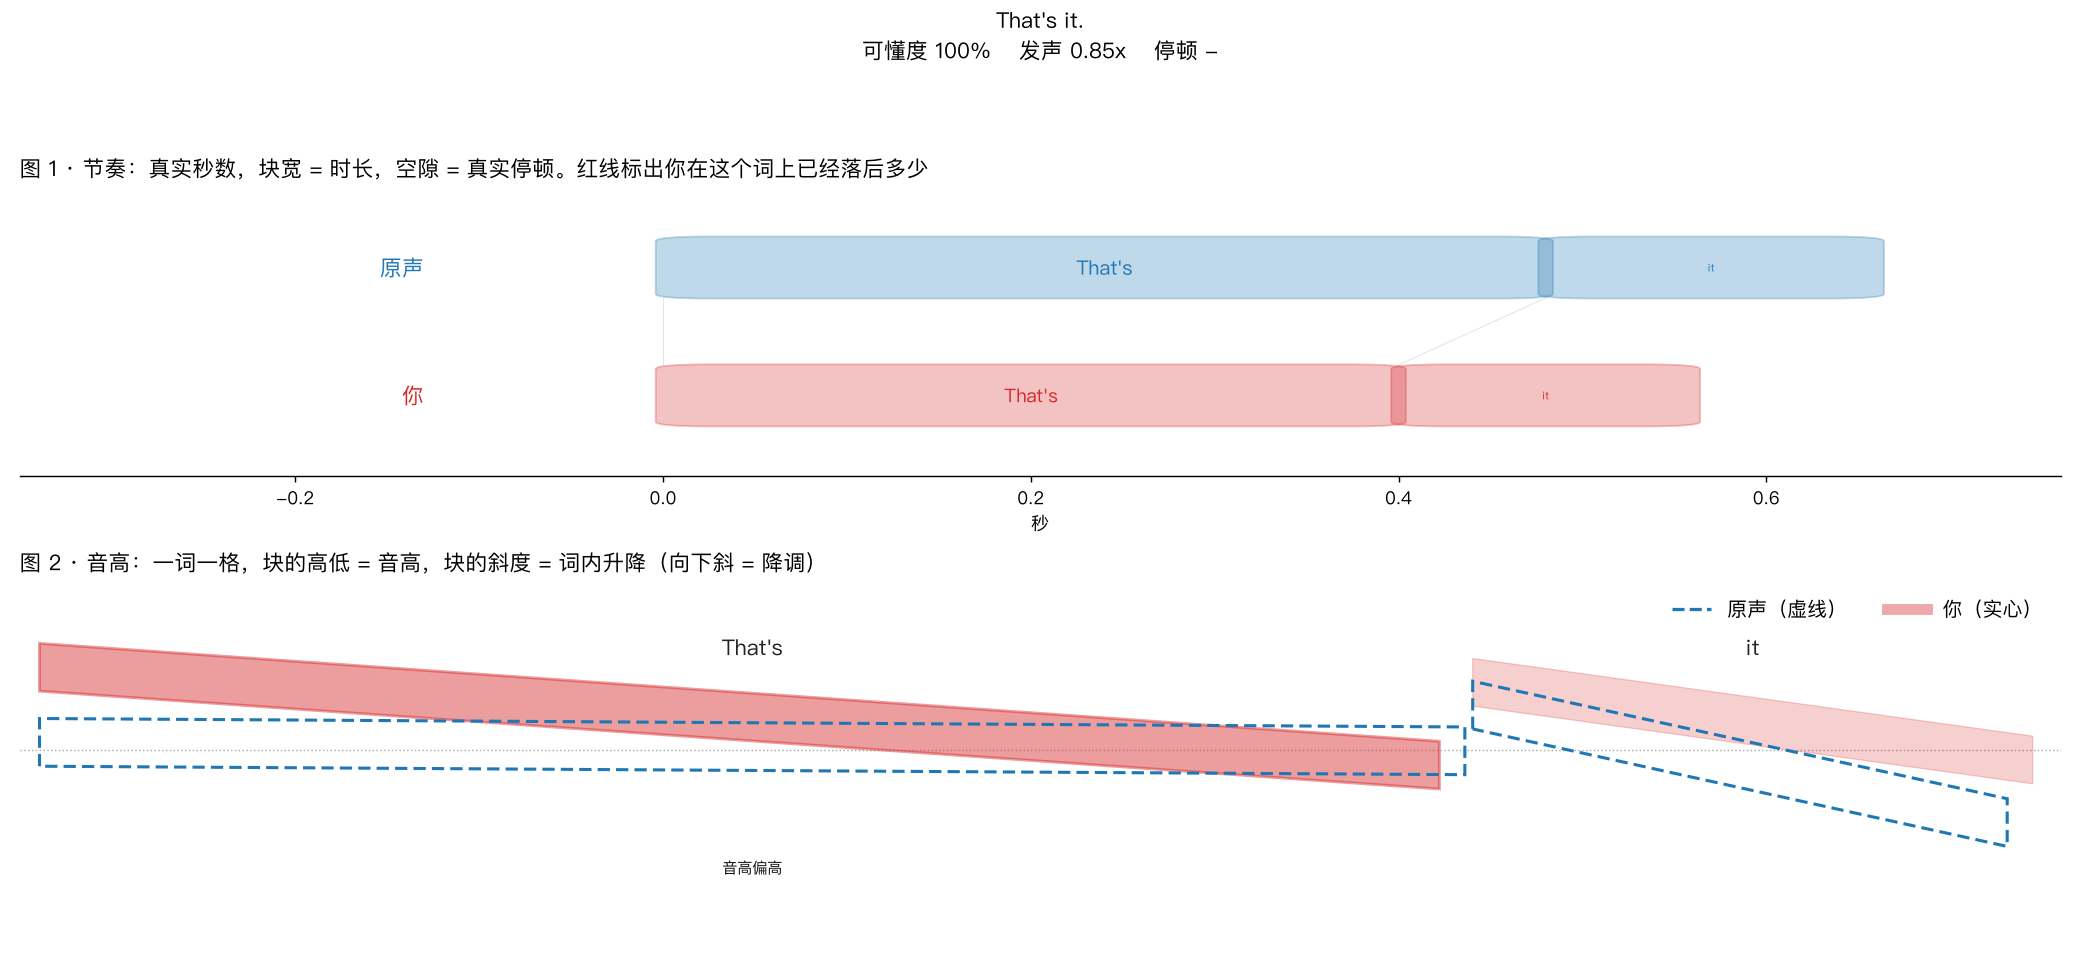
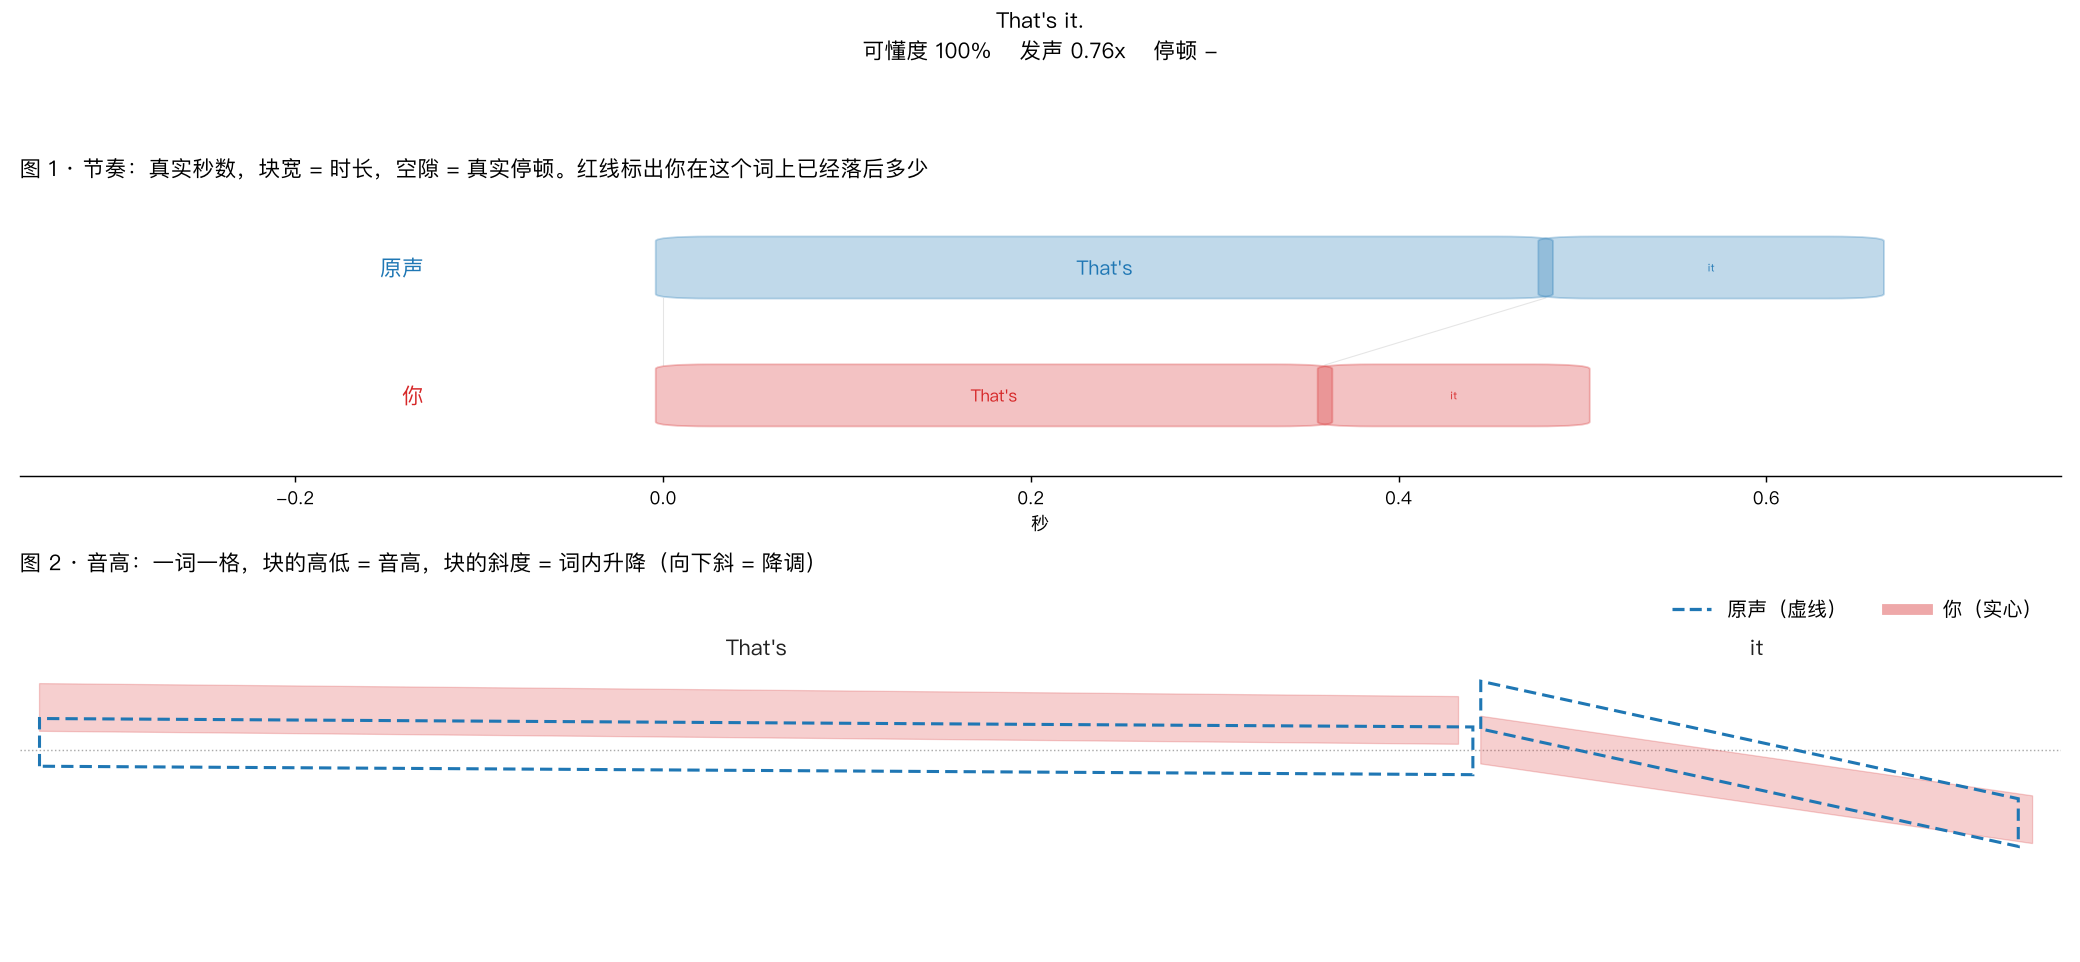
fix: 音高边界改用中位数，短句不再被谐波带偏
把默认切分改成句子级（0.7 秒）之后暴露的回归：

1. 自适应收窄要求 20 个浊音帧，短句达不到，退回 75-500 Hz 宽范围，
   而宽范围正是谐波误判的元凶。门槛降到 5。
2. 更根本的是四分位规则本身不稳：某次录音三成帧被骗到 470 Hz，
   Q3 因此变成 470，收窄完全失效（实测跨度 27.2 半音、6 个离群帧）。
   中位数同期仍是 116 Hz，与同批另外两次的 107/114 一致。

改用中位数 ÷2 ~ ×2。该录音跨度降到 4.1、零离群，其余录音未变差。
边界计算抽成 bounds_from_voiced 纯函数，可用合成的污染分布直接测。

diff --git a/src/shadow/analysis/prosody.py b/src/shadow/analysis/prosody.py
@@ -54,6 +54,24 @@ def word_contour(prosody: "Prosody", start: float, end: float) -> tuple[float, f
     return float(np.mean(values[:third])), float(np.mean(values[-third:]))
 
 
+def bounds_from_voiced(
+    voiced: np.ndarray, *, floor: float, ceiling: float
+) -> tuple[float, float]:
+    """由粗测得到的浊音基频定出收窄后的搜索范围。纯函数，便于单测。
+
+    用中位数而非四分位数：八度错误一旦超过四分之一的帧，Q3 本身就被拉走了。
+    中位数只要错误帧不过半就稳，而人在一句话里的音域极少超过 ±1 个八度。
+    """
+    if voiced.size < config.PITCH_ADAPT_MIN_VOICED:
+        return floor, ceiling
+    median = float(np.median(voiced))
+    if median <= 0:
+        return floor, ceiling
+    low = max(floor, median / config.PITCH_ADAPT_SPAN)
+    high = min(ceiling, median * config.PITCH_ADAPT_SPAN)
+    return low, max(high, low * 2.0)
+
+
 def adaptive_pitch_bounds(
     sound: parselmouth.Sound,
     *,
@@ -64,20 +82,11 @@ def adaptive_pitch_bounds(
     """按说话人自身的基频分布收窄搜索范围。
 
     固定上限对低男声太宽，追踪器会把谐波当成基频。先用宽范围跑一遍，
-    取浊音帧的四分位数，再收到 0.75*Q1 ~ 1.5*Q3（Praat 的标准做法）。
-    浊音帧太少时保持原边界，不瞎猜。
+    再据其中位数收窄重跑。浊音帧太少时保持原边界，不瞎猜。
     """
     rough = sound.to_pitch(time_step=step, pitch_floor=floor, pitch_ceiling=ceiling)
     values = np.asarray(rough.selected_array["frequency"], dtype=float)
-    voiced = values[values > 0.0]
-    if voiced.size < config.PITCH_ADAPT_MIN_VOICED:
-        return floor, ceiling
-
-    q25, q75 = np.percentile(voiced, [25, 75])
-    low = max(floor, config.PITCH_ADAPT_LOW * float(q25))
-    high = min(ceiling, config.PITCH_ADAPT_HIGH * float(q75))
-    high = max(high, low * 2.0)  # 搜索范围不能退化
-    return low, min(high, ceiling)
+    return bounds_from_voiced(values[values > 0.0], floor=floor, ceiling=ceiling)
 
 
 def analyse(

diff --git a/tests/test_prosody.py b/tests/test_prosody.py
@@ -5,7 +5,11 @@ import soundfile as sf
 import parselmouth
 
 from shadow import config
-from shadow.analysis.prosody import adaptive_pitch_bounds, analyse
+from shadow.analysis.prosody import (
+    adaptive_pitch_bounds,
+    analyse,
+    bounds_from_voiced,
+)
 
 SR = 16000
 
@@ -107,3 +111,35 @@ def test_low_voice_produces_no_octave_outliers(tmp_path):
     finite = result.semitones[np.isfinite(result.semitones)]
     assert finite.size > 0
     assert np.abs(finite).max() < 3.0
+
+
+def test_bounds_are_median_based_not_quartile_based():
+    # 取 200 Hz，除以跨度后仍高于 75 Hz 的地板，才测得出规则本身
+    voiced = np.full(60, 200.0)
+    low, high = bounds_from_voiced(voiced, floor=75.0, ceiling=500.0)
+    assert low == pytest.approx(200.0 / config.PITCH_ADAPT_SPAN, abs=1.0)
+    assert high == pytest.approx(200.0 * config.PITCH_ADAPT_SPAN, abs=1.0)
+
+
+def test_bounds_never_go_below_the_floor():
+    low, _ = bounds_from_voiced(np.full(60, 100.0), floor=75.0, ceiling=500.0)
+    assert low == 75.0
+
+
+def test_bounds_survive_heavy_octave_contamination():
+    """实测某次录音三成帧被谐波骗到 470 Hz，四分位数因此失效，中位数不受影响。"""
+    clean = np.full(40, 110.0)
+    contaminated = np.concatenate([clean, np.full(18, 470.0)])
+    low, high = bounds_from_voiced(contaminated, floor=75.0, ceiling=500.0)
+    assert high < 300.0          # 没有被 470 Hz 拉走
+    assert low < 110.0 < high
+
+
+def test_bounds_work_with_only_a_handful_of_frames():
+    # 0.7 秒的短句只有十来个浊音帧，门槛必须低于此
+    low, high = bounds_from_voiced(np.full(6, 100.0), floor=75.0, ceiling=500.0)
+    assert high < 500.0
+
+
+def test_bounds_fall_back_when_almost_nothing_is_voiced():
+    assert bounds_from_voiced(np.full(2, 100.0), floor=75.0, ceiling=500.0) == (75.0, 500.0)

diff --git a/src/shadow/config.py b/src/shadow/config.py
@@ -47,9 +47,11 @@ PITCH_CEILING_HZ = 500.0
 # 固定的 75-500 Hz 对低男声太宽，会把谐波误判成基频（实测 94 Hz 的声音
 # 有 12% 的帧跳到 494 Hz，把纵轴撑到 30 半音，真实语调全被压扁）。
 # Praat 标准两遍法：先宽跑一遍取四分位数，再用 0.75*Q1 ~ 1.5*Q3 重跑。
-PITCH_ADAPT_MIN_VOICED = 20
-PITCH_ADAPT_LOW = 0.75
-PITCH_ADAPT_HIGH = 1.5
+# 用中位数而非四分位数定边界：八度错误超过 25% 的帧时四分位数本身就被污染
+# （实测某次录音 Q75 = 470 Hz，中位数仍是 116 Hz，与同批另外两次一致）。
+# 中位数只要错误帧不过半就稳。人在一句话内的音域也极少超过 ±1 个八度。
+PITCH_ADAPT_MIN_VOICED = 5
+PITCH_ADAPT_SPAN = 2.0
 
 # --- 录音校验 ---
 MIN_ATTEMPT_SEC = 1.0
